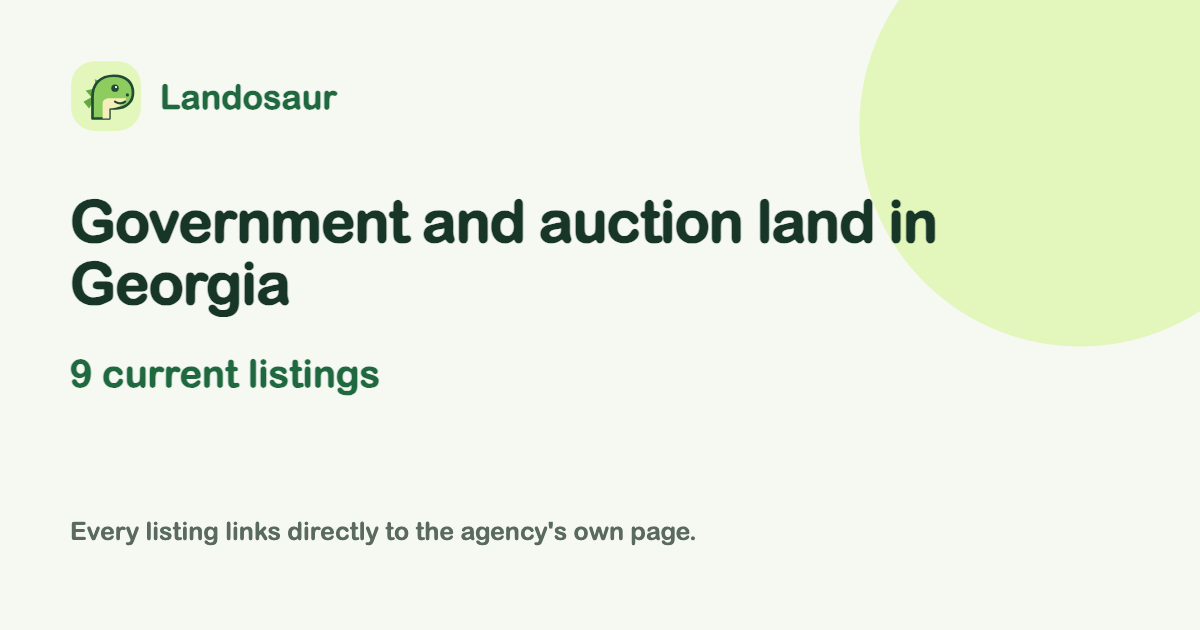
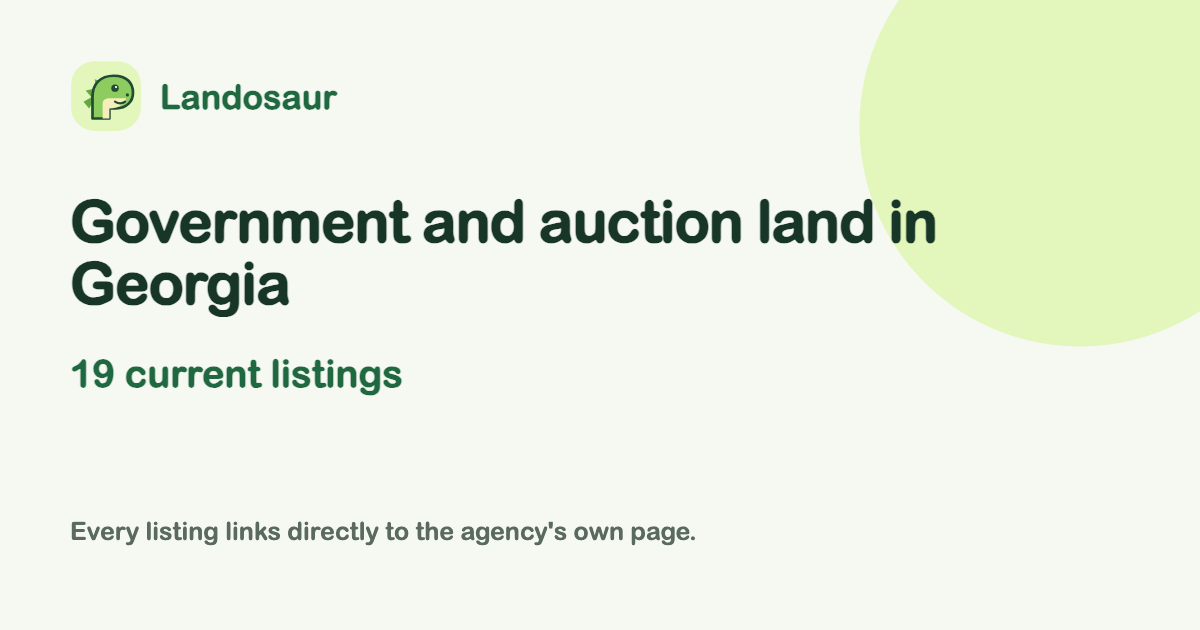
Publish verified Metro Atlanta Land Bank vacant lots

Changed region(s): [[0.0617, 0.573, 0.3392, 0.6333]]

diff --git a/lando/adapters.py b/lando/adapters.py
@@ -9165,7 +9165,81 @@ def denali_ak_land(fetch, now, warn):
     return rows, {"complete": True, "upstream_total": total}
 
 
+METRO_ATLANTA_LAND = "https://metroatlantalandbank.org/fee-simple-vacant-lots/"
+METRO_ATLANTA_PARCELS = "https://services.arcgis.com/04HiymDgLlsbhaV4/arcgis/rest/services/COA_Parcels_AddressPoints/FeatureServer/2/query"
+
+
+def metro_atlanta_landbank(fetch, now, warn):
+    from concurrent.futures import ThreadPoolExecutor
+
+    page = fetch.text(METRO_ATLANTA_LAND)
+    if "Simple Vacant Lots Available For Purchase" not in clean(page):
+        raise StructureError("Metro Atlanta Land Bank’s sale section changed")
+    urls = list(dict.fromkeys(
+        url for url, label in re.findall(r'<a\b[^>]*href="([^"]+\.pdf)"[^>]*>(.*?)</a>', page, re.I | re.S)
+        if clean(label).lower() == "view lot"
+        and re.fullmatch(r"https://metroatlantalandbank\.org/wp-content/uploads/\d{4}/\d{2}/[A-Za-z0-9-]+\.pdf", url)
+    ))
+    if not urls:
+        raise StructureError("Metro Atlanta Land Bank’s vacant lot brochures are missing")
+
+    with ThreadPoolExecutor(max_workers=3) as workers:
+        texts = list(workers.map(lambda url: pdf_text(fetch, url), urls))
+    offers = {}
+    for url, text in zip(urls, texts):
+        if not re.search(r"\bVacant Lot For Sale\b", clean(text), re.I):
+            continue
+        identifier = re.search(r"^[ \t]*Parcel ID#?:[ \t]*([0-9A-Z ]+?)[ \t]*$", text, re.I | re.M)
+        pin = identifier[1].strip() if identifier else ""
+        if not re.fullmatch(r"\d{2}[A-Z]?\d{12}|\d{6}LL\d{4}", re.sub(r"\s+", "", pin)):
+            continue
+        if pin in offers:
+            raise StructureError("Metro Atlanta Land Bank’s brochures repeat a parcel")
+        offers[pin] = url
+    if not offers:
+        raise StructureError("No official lot brochures contain vacant sale and parcel records")
+
+    where = ("TaxYear=2026 AND UPPER(Owner) LIKE 'FULTON COUNTY%ATLANTA%LAND BANK AUTHORITY%' "
+             f"AND ParcelID IN ({quote_list(offers)})")
+    gis_url, features = arcgis_query(fetch, METRO_ATLANTA_PARCELS, where,
+                                    "ParcelID,Address,TaxYear,LandAcres,LivUnits,ClassCode,LUCode")
+    counts = Counter(feature["attributes"].get("ParcelID") for feature in features)
+    rows = []
+    for feature in features:
+        parcel = feature["attributes"]
+        pin = parcel.get("ParcelID")
+        area = number(parcel.get("LandAcres"))
+        street = clean(parcel.get("Address"))
+        if (pin not in offers or counts[pin] != 1 or not area or not street or parcel.get("TaxYear") != 2026
+                or parcel.get("LivUnits") != 0 or parcel.get("ClassCode") != "E1"
+                or parcel.get("LUCode") not in {"600", "699"}):
+            continue
+        url = offers[pin]
+        row = {
+            "id": "ga-malb-" + re.sub(r"\s+", "", pin).lower(), "source": "metro-atlanta-landbank",
+            "title": f"{street.title()}, Atlanta (Land Bank vacant lot {pin})", "state": "GA", "county": "Fulton",
+            "locality": "Atlanta", "address": street.title(), "apn": pin, "acres": area, "price": None, "price_kind": "none",
+            "offering": "offer", "status": "listed", "deadline": None, "url": url, "lat": None, "lon": None, "geometry": None,
+            "facts": [
+                fact("availability", "Vacant lot offered through the land bank’s fee-simple purchase program.", METRO_ATLANTA_LAND),
+                fact("parcel_number", pin, url),
+                fact("acreage", f"{area:g} acres in the 2026 parcel roll", gis_url),
+                fact("sale_terms", "See the land bank’s current purchase policy and property-specific development terms.", METRO_ATLANTA_LAND),
+            ],
+            "tags": ["land bank", "development land"],
+        }
+        apply_geometry(row, (feature.get("geometry") or {}).get("rings", []), gis_url, "Atlanta parcel GIS")
+        if row["geometry"]:
+            row["facts"][-1]["url"] = gis_url
+            rows.append(row)
+    return rows, {"complete": True, "upstream_total": len(urls)}
+
+
 SOURCES = [
+    {"id": "metro-atlanta-landbank", "name": "Metro Atlanta Land Bank fee-simple vacant lots",
+     "agency": "Metro Atlanta Land Bank Authority", "url": METRO_ATLANTA_LAND, "state": "GA",
+     "run": metro_atlanta_landbank, "requires_sale_match": True,
+     "about": "Vacant purchase-application properties from the land bank’s fee-simple program, matched to official Atlanta parcel data."},
     {"id": "st-louis-lra", "name": "City of St. Louis vacant-lot inventory", "agency": "St. Louis Development Corporation / Land Reutilization Authority",
      "url": "https://www.stlouis-mo.gov/government/departments/sldc/real-estate/lra-owned-property-search.cfm", "state": "MO", "run": st_louis,
      "about": "City-owned vacant lots marked available in the city's open-data exports. Eligible Side Lot Program properties have an official application price."},

diff --git a/tests/test_adapters.py b/tests/test_adapters.py
@@ -1072,6 +1072,29 @@ Zoning R-1 Single Family Residential
 
 class OfficialInventoryExtensionTest(unittest.TestCase):
 
+    def test_metro_atlanta_matches_current_vacant_brochures_to_official_parcels(self):
+        root = "https://metroatlantalandbank.org/wp-content/uploads/2024/08/"
+        fetch = unittest.mock.Mock()
+        fetch.text.return_value = '<h2>Simple Vacant Lots Available For Purchase</h2>' + ''.join(
+            f'<a href="{root}{name}.pdf">View Lot</a>' for name in ("open", "inconsistent", "image-only"))
+        sales = {"open.pdf": "Vacant Lot For Sale\nParcel ID#: 14 0040  LL0061\nApplication fee: $100",
+                 "inconsistent.pdf": "Vacant Lot For Sale\nParcel ID#: 14 006700050493\n", "image-only.pdf": ""}
+        rings = [[[-84.4, 33.7], [-84.4, 33.701], [-84.399, 33.7], [-84.4, 33.7]]]
+
+        def official_record(pin, units):
+            return {"attributes": {"ParcelID": pin, "Address": "0 LIVERMORE ST SE", "LandAcres": .61,
+                                   "TaxYear": 2026, "LivUnits": units, "ClassCode": "E1", "LUCode": "600"},
+                    "geometry": {"rings": rings}}
+
+        features = [official_record("14 0040  LL0061", 0), official_record("14 006700050493", 1)]
+        with patch.object(adapters, "pdf_text", side_effect=lambda fetch, url: sales[url.rsplit("/", 1)[-1]]), \
+                patch.object(adapters, "arcgis_query", return_value=("https://example.com/gis", features)) as gis:
+            rows, info = adapters.metro_atlanta_landbank(fetch, NOW, self.fail)
+        row, = rows
+        self.assertEqual((info["upstream_total"], row["apn"], row["acres"], row["price"]), (3, "14 0040  LL0061", .61, None))
+        self.assertTrue(row["geometry"])
+        self.assertNotIn("Owner", gis.call_args.args[3])
+
     def test_denali_uses_the_current_count_and_the_linked_purchase_prices(self):
         fetch = unittest.mock.Mock()
         fetch.text.return_value = (

diff --git a/scripts/check_dist.py b/scripts/check_dist.py
@@ -27,7 +27,7 @@ from lando.pages import listing_is_indexable  # noqa: E402
 HREF = re.compile(r'(?:href|src)="([^"]+)"')
 OFFICIAL = {
     "douglascountywa.gov", "co.chelan.wa.us", "franklintownshipnj.org", "townofgreybull.com", "washingtoncountytn.org", "tnecd.com",
-    "firstpark.com", "cms2.revize.com", "alamosacounty.org", "denaliborough.org",
+    "firstpark.com", "cms2.revize.com", "alamosacounty.org", "denaliborough.org", "metroatlantalandbank.org",
     "stlouis-mo.gov", "cosl.org", "wisconsin.gov", "alaskamentalhealthtrust.org",
     "alaska.gov", "buildingdetroit.org", "kclandbank.org", "dgs.ca.gov",
     "chicago.gov", "pghlandbank.org", "louisvilleky.gov", "lucascountylandbank.org",
